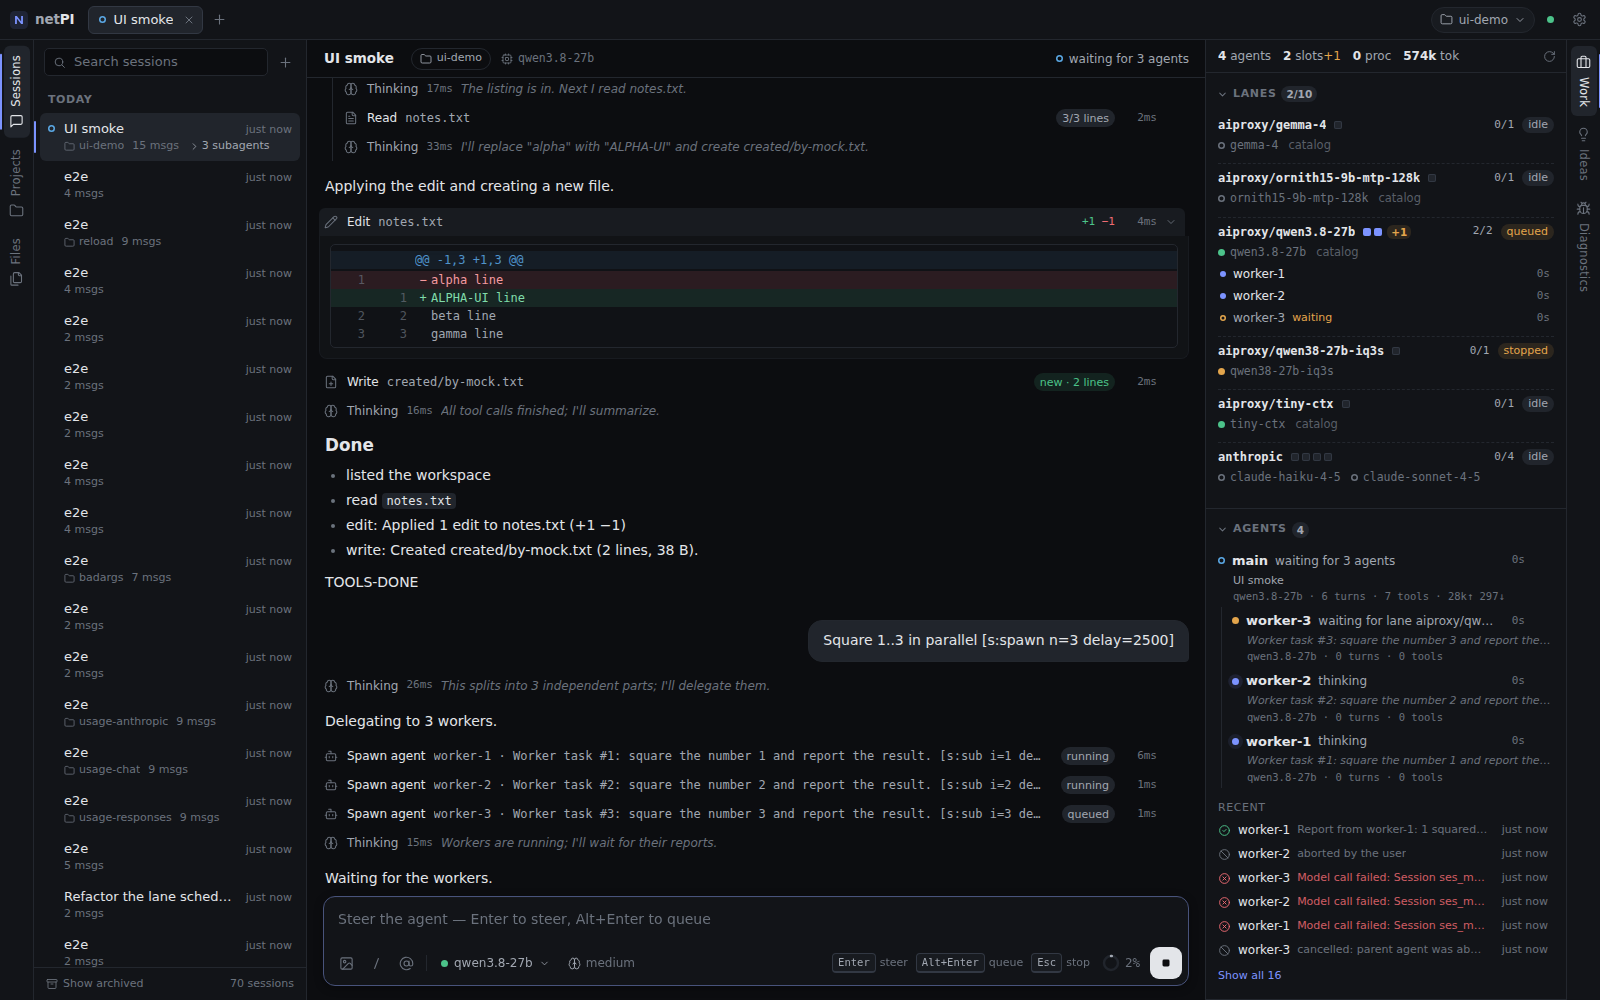
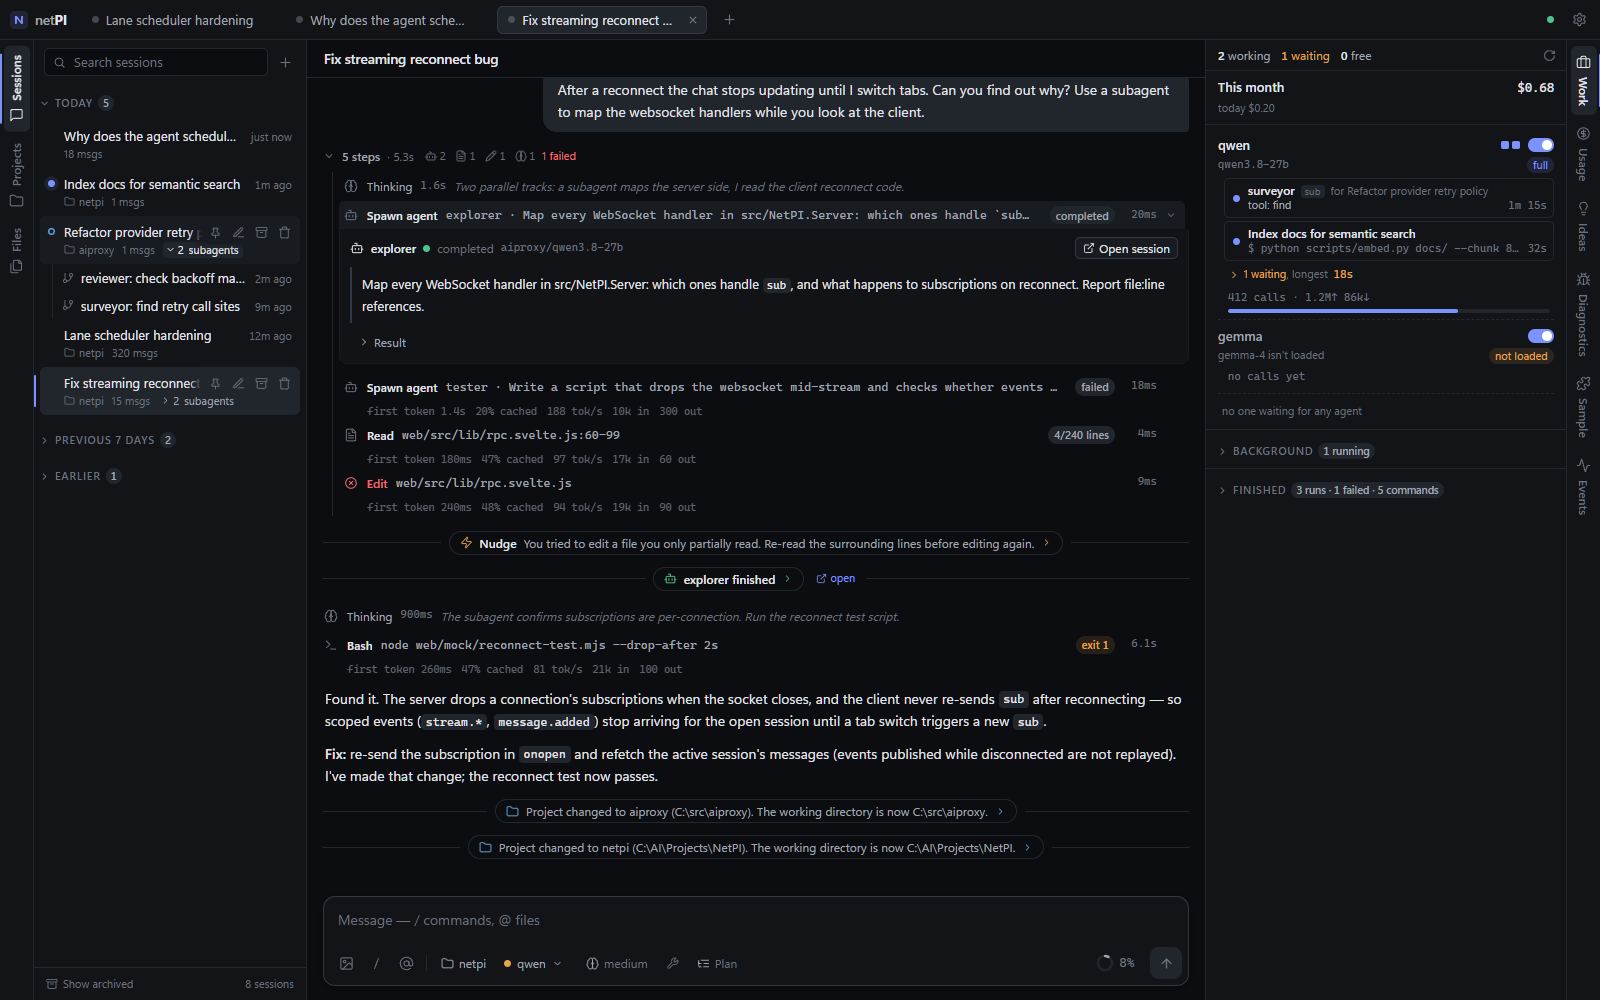
README: a current screenshot from the mock UI suite

diff --git a/README.md b/README.md
@@ -15,7 +15,7 @@ kernel knows none of it; `node scripts/core-size.mjs` checks that mechanically. 
 that port (`ctx.Data`), so a second storage provider is a class that implements it and passes the conformance suite.
 See [the plan that made it so](docs/archive/2026-10-02-replaceable-parts.md).
 
-![netPI running three subagents on a local model that serves two at once](docs/images/netpi-subagents.png)
+![netPI: a chat that runs subagents, with the Work panel showing the agents, their queue and this month's spend](docs/images/netpi-subagents.png)
 
 ## Highlights
 
